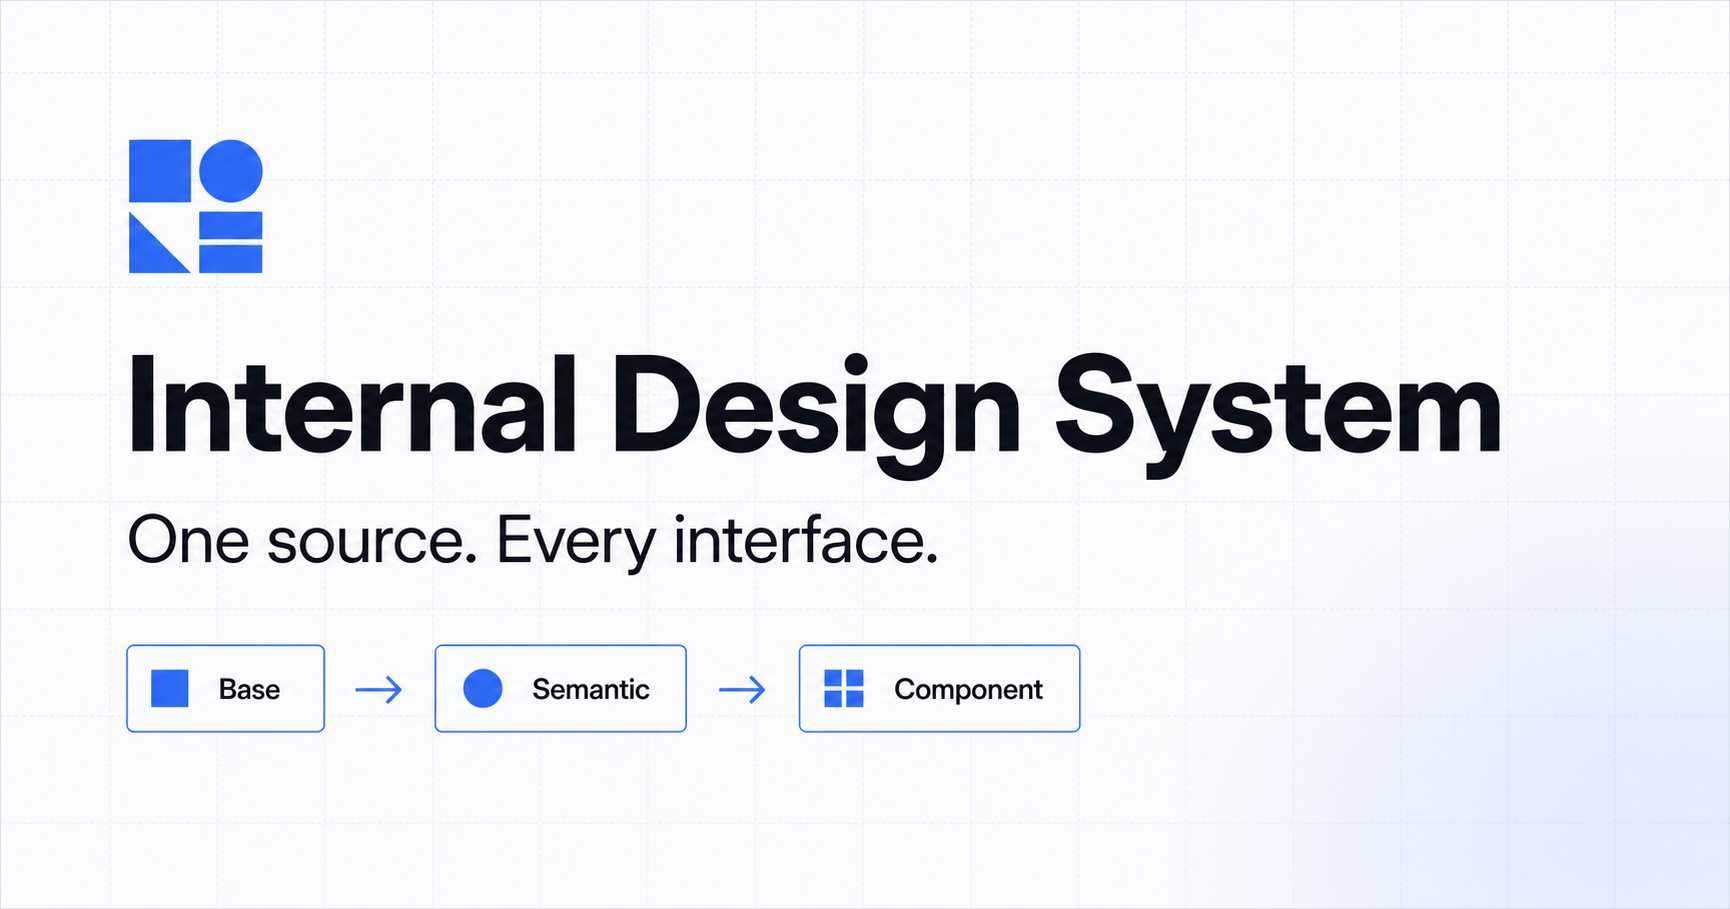
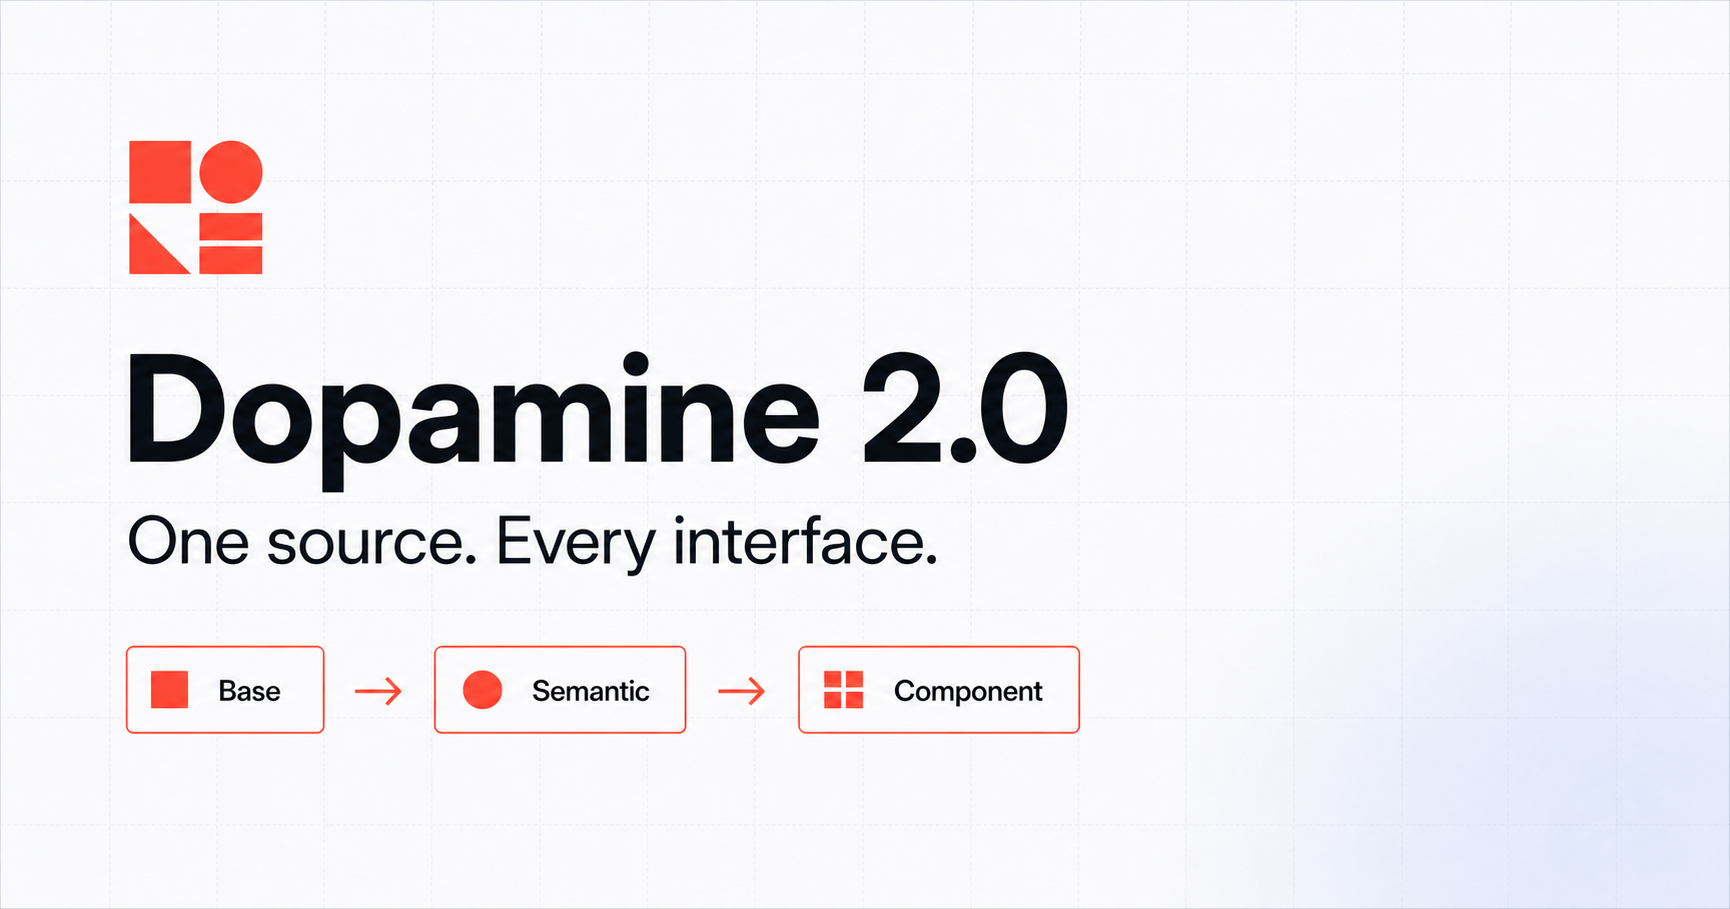
chore: rename site to Dopamine 2.0

diff --git a/app/_components/SiteShell.tsx b/app/_components/SiteShell.tsx
@@ -14,7 +14,7 @@ function Brand() {
   return (
     <Link className="brand" href="/">
       <span className="brand-mark" aria-hidden="true" />
-      <span>Design System</span>
+      <span>Dopamine 2.0</span>
     </Link>
   );
 }
@@ -36,7 +36,7 @@ export function SiteShell({ children }: { children: ReactNode }) {
           <p className="nav-label">Build</p>
           {links.slice(4).map((link) => <Link className="nav-link" key={link.href} href={link.href}>{link.label}</Link>)}
         </nav>
-        <p className="nav-meta">Internal release · v0.1<br />Token source synchronized</p>
+        <p className="nav-meta">Dopamine 2.0 · v0.1<br />Token source synchronized</p>
       </aside>
       <header className="mobile-header">
         <Brand />
@@ -50,7 +50,7 @@ export function SiteShell({ children }: { children: ReactNode }) {
       <div className="site-main">
         {children}
         <footer className="footer">
-          <span>Internal Design System · v0.1</span>
+          <span>Dopamine 2.0 · v0.1</span>
           <span>Tokens → Components → Product</span>
         </footer>
       </div>

diff --git a/app/layout.tsx b/app/layout.tsx
@@ -24,19 +24,19 @@ export async function generateMetadata(): Promise<Metadata> {
   return {
     metadataBase: baseUrl,
     title: {
-      default: "Internal Design System",
-      template: "%s · Internal Design System"
+      default: "Dopamine 2.0",
+      template: "%s · Dopamine 2.0"
     },
     description:
       "A shared language for designers and developers: foundations, accessible React components, and implementation guidance.",
     openGraph: {
-      title: "Internal Design System",
+      title: "Dopamine 2.0",
       description: "One source. Every interface.",
-      images: [{ url: "/og.png", width: 1200, height: 630, alt: "Internal Design System" }]
+      images: [{ url: "/og.png", width: 1200, height: 630, alt: "Dopamine 2.0" }]
     },
     twitter: {
       card: "summary_large_image",
-      title: "Internal Design System",
+      title: "Dopamine 2.0",
       description: "One source. Every interface.",
       images: ["/og.png"]
     }

diff --git a/app/page.tsx b/app/page.tsx
@@ -16,7 +16,7 @@ export default function Home() {
           <Link className="button-link button-link-primary" href="/getting-started">Start building <span aria-hidden="true">→</span></Link>
           <Link className="button-link button-link-secondary" href="/foundations">Explore foundations</Link>
         </div>
-        <div className="system-stats" aria-label="Design system status">
+        <div className="system-stats" aria-label="Dopamine 2.0 status">
           <div><strong>{Object.keys(tokens).length}</strong><span>generated tokens</span></div>
           <div><strong>{foundationPages.length}</strong><span>foundation groups</span></div>
           <div><strong>{readyComponents.length}</strong><span>package-ready component</span></div>

diff --git a/.storybook/manager.ts b/.storybook/manager.ts
@@ -4,13 +4,13 @@ import { create } from "storybook/theming";
 addons.setConfig({
   theme: create({
     base: "light",
-    brandTitle: "Internal Design System",
+    brandTitle: "Dopamine 2.0",
     brandUrl: "/",
-    colorPrimary: "#3568F4",
-    colorSecondary: "#2855D9",
-    appBg: "#F7F8FA",
+    colorPrimary: "#ff5443",
+    colorSecondary: "#414752",
+    appBg: "#f7f8fa",
     appContentBg: "#FFFFFF",
-    appBorderColor: "#DDE1E8",
-    appBorderRadius: 10
+    appBorderColor: "#dde2eb",
+    appBorderRadius: 8
   })
 });

diff --git a/README.md b/README.md
@@ -1,4 +1,4 @@
-# Internal Design System
+# Dopamine 2.0
 
 A private documentation platform, Storybook, token pipeline, and registry-ready React package.
 
